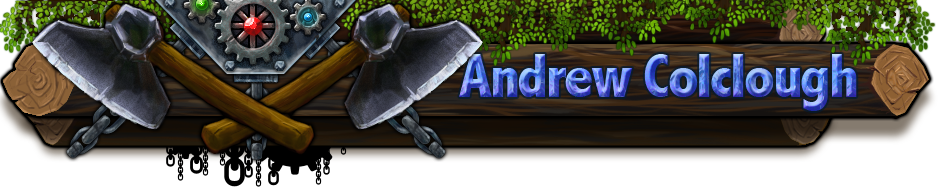
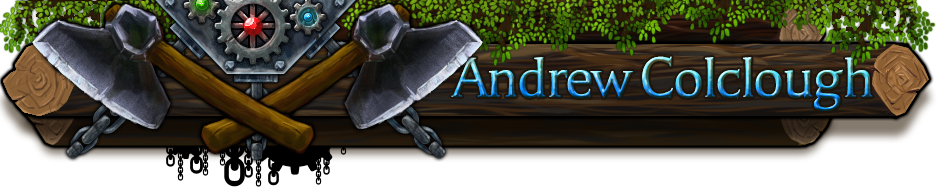
Better header fontage, new gallery content

Changed region(s): [[0.4628, 0.2462, 0.9255, 0.5846]]

diff --git a/themes/twitter/stylesheets/style.css b/themes/twitter/stylesheets/style.css
@@ -513,7 +513,7 @@ a.thumbnail:hover {
   line-height: 6em;
   font-size: 22px;
   color:#d1a251;
-  text-shadow:0 -1px 0 rgba(250, 200, 10, 0.7), 0 1px 2px rgba(0, 0, 0, 0);
+  text-shadow:0 1px 2px rgba(0, 0, 0, 0);
   font-weight:normal;
 }
 .viewer .next, .viewer .previous {
@@ -546,8 +546,16 @@ a.thumbnail:hover {
   text-decoration:none;
 }
 
-a.view{width:400px; height:300px; cursor:pointer; z-index:50; position:absolute; bottom:13px; right:15px; background:transparent url('../img/zoomer.png') 336px 170px no-repeat; opacity:.40}
-.thumbnails li:hover a.view{opacity:1; bottom:15px; right:17px; background-position:273px 234px;}
+a.view{width:400px; height:300px; cursor:pointer; z-index:50; position:absolute; bottom:13px; right:15px;  opacity:.20; background:none;}
+.thumbnails li:hover a.view{opacity:1; bottom:15px; right:17px; 
+}
+/*
+background:transparent url('../img/mag.png') 20px 20px no-repeat;
+-webkit-transition: background 0.2s ease-out;
+-moz-transition: background 0.2s ease-out;
+-o-transition: background 0.2s ease-out;
+transition: background 0.2s ease-out;
+*/
 
 
 

diff --git a/pages/index.html b/pages/index.html
@@ -5,8 +5,9 @@ description:
 nails:
   -
     url: ipadconcept.jpg
-    title: 3 Step Setup
+    title: 3 Step Setup Mobile UI Concept
     datcon: A concept for a quick application setup process that could work on a mobile platform. The content is junk data because I don't want to give away anything secret.
+    modal: {"modalurl":"ipad-full.jpg"} 
   -
     url: legions.jpg
     title: PlayLegions.com - PlayLegions Facebook
